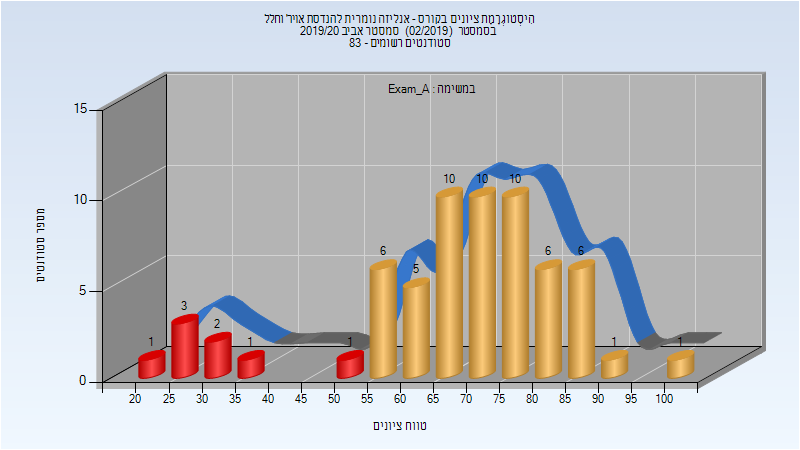
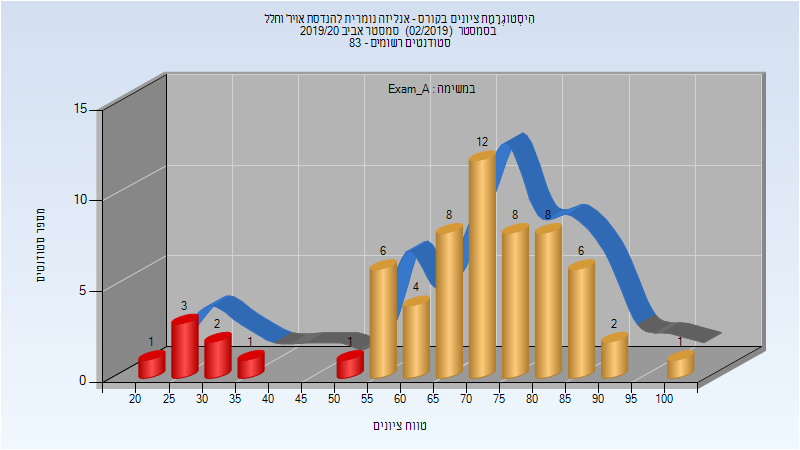
Deploy michael-maltsev/technion-histograms to github.com/michael-maltsev/technion-histograms.git:gh-pages

Changed region(s): [[0.5312, 0.28, 0.7812, 0.6222], [0.75, 0.6222, 0.9062, 0.8089], [0.5, 0.56, 0.5625, 0.6844]]

diff --git a/084135/index.html b/084135/index.html
@@ -212,8 +212,34 @@
 <td>87</td>
 <td>23</td>
 <td>100</td>
-<td>68.127</td>
-<td>70</td>
+<td>68.81</td>
+<td>71</td>
+</tr>
+</tbody>
+</table>
+<h3>סופי מועד א'</h3>
+<p><img src="201902/Final_A.png" alt="201902 Final_A" /></p>
+<table>
+<thead>
+<tr>
+<th>סטודנטים</th>
+<th>עברו/נכשלו</th>
+<th>אחוז עוברים</th>
+<th>ציון מינימלי</th>
+<th>ציון מקסימלי</th>
+<th>ממוצע</th>
+<th>חציון</th>
+</tr>
+</thead>
+<tbody>
+<tr>
+<td>63</td>
+<td>56/7</td>
+<td>89</td>
+<td>35</td>
+<td>99</td>
+<td>74.635</td>
+<td>77</td>
 </tr>
 </tbody>
 </table>

diff --git a/084737/index.html b/084737/index.html
@@ -426,7 +426,7 @@
 <td>79</td>
 <td>0</td>
 <td>100</td>
-<td>72</td>
+<td>72.013</td>
 <td>75</td>
 </tr>
 </tbody>
@@ -452,7 +452,7 @@
 <td>91</td>
 <td>17</td>
 <td>100</td>
-<td>78.122</td>
+<td>78.135</td>
 <td>80</td>
 </tr>
 </tbody>

diff --git a/084737/README.md b/084737/README.md
@@ -129,7 +129,7 @@
 
 | סטודנטים | עברו/נכשלו | אחוז עוברים | ציון מינימלי | ציון מקסימלי | ממוצע | חציון |
 | ---- | ---- | ---- | ---- | ---- | ---- | ---- |
-| 77 | 61/16 | 79 | 0 | 100 | 72 | 75 |
+| 77 | 61/16 | 79 | 0 | 100 | 72.013 | 75 |
 
 ### סופי מועד א'
 
@@ -137,7 +137,7 @@
 
 | סטודנטים | עברו/נכשלו | אחוז עוברים | ציון מינימלי | ציון מקסימלי | ממוצע | חציון |
 | ---- | ---- | ---- | ---- | ---- | ---- | ---- |
-| 74 | 67/7 | 91 | 17 | 100 | 78.122 | 80 |
+| 74 | 67/7 | 91 | 17 | 100 | 78.135 | 80 |
 
 ### סופי
 

diff --git a/084135/README.md b/084135/README.md
@@ -61,5 +61,13 @@
 
 | סטודנטים | עברו/נכשלו | אחוז עוברים | ציון מינימלי | ציון מקסימלי | ממוצע | חציון |
 | ---- | ---- | ---- | ---- | ---- | ---- | ---- |
-| 63 | 55/8 | 87 | 23 | 100 | 68.127 | 70 |
+| 63 | 55/8 | 87 | 23 | 100 | 68.81 | 71 |
+
+### סופי מועד א'
+
+![201902 Final_A](201902/Final_A.png)
+
+| סטודנטים | עברו/נכשלו | אחוז עוברים | ציון מינימלי | ציון מקסימלי | ממוצע | חציון |
+| ---- | ---- | ---- | ---- | ---- | ---- | ---- |
+| 63 | 56/7 | 89 | 35 | 99 | 74.635 | 77 |
 
